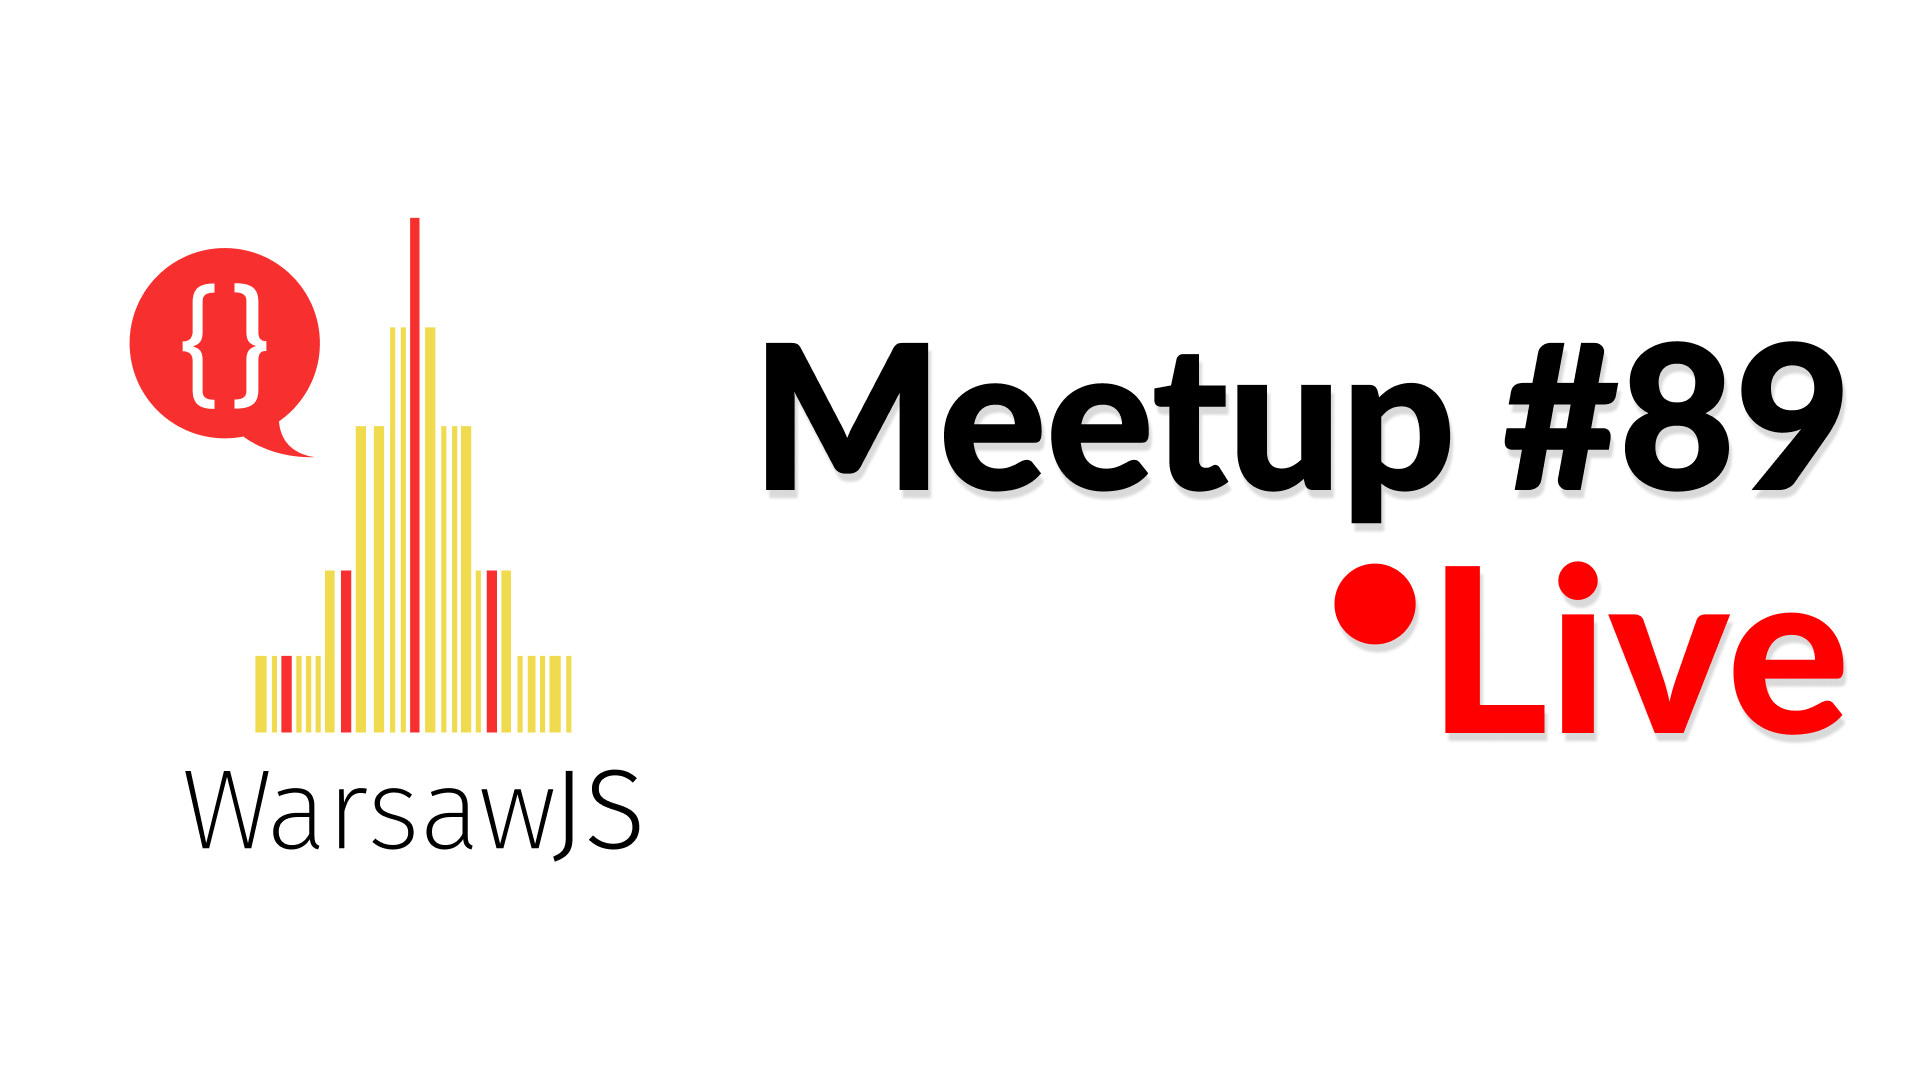
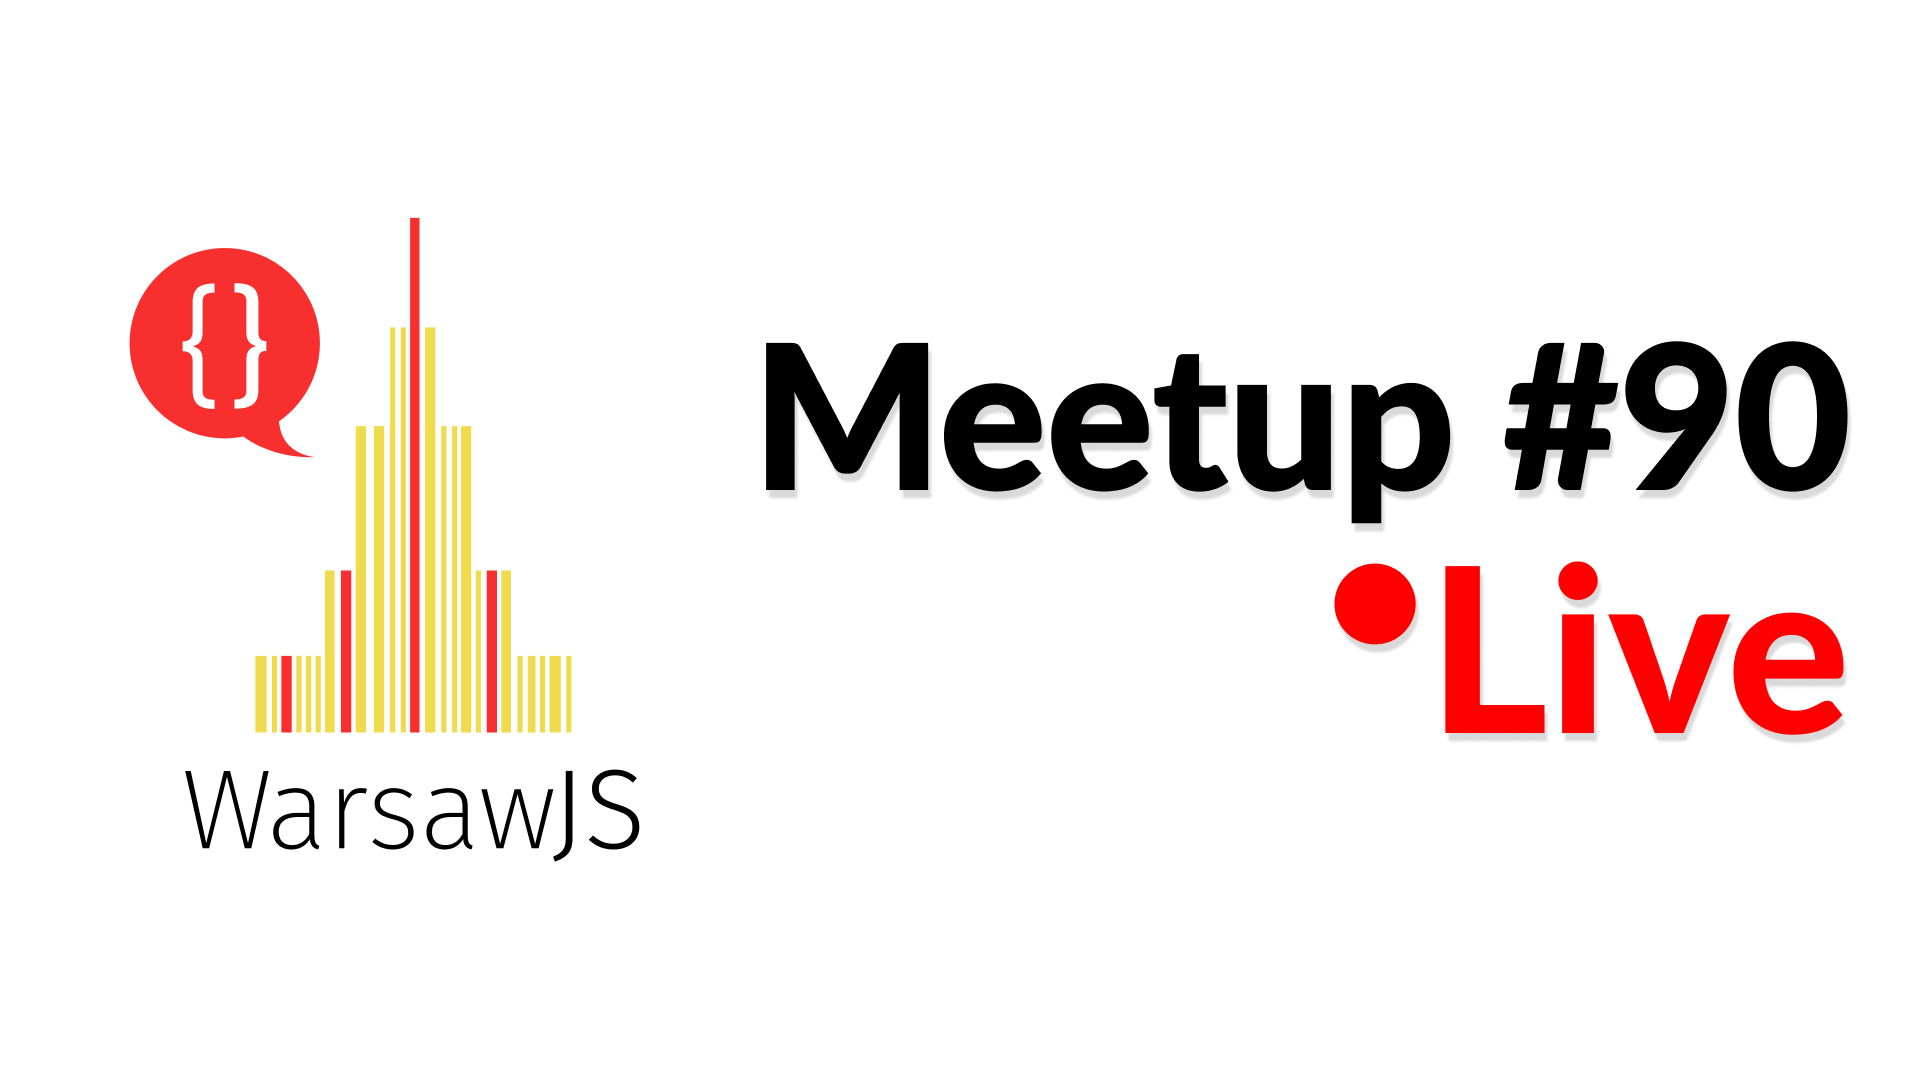
Update slides

Changed region(s): [[0.8438, 0.3361, 0.9688, 0.4583]]

diff --git a/index.html b/index.html
@@ -76,6 +76,33 @@
         //-->
     </section>
 
+        <section class="slide center slide-card-list" style="padding-top: 40px;">
+        <h2 style="font-size: 60px; margin-bottom: 20px;">
+            WarsawJS <em>Master of Ceremonies</em>
+        </h2>
+
+        <ul class="list-unstyled items">
+            <li>
+                <img
+                    src="https://s3.eu-central-1.amazonaws.com/www.warsawjs.com/static/images/people/barry-solone.jpg"
+                    class="avatar"
+                    style="border-radius: 50%; width: 170px; margin-bottom: 25px;"
+                    alt=""/>
+
+                <p>
+                    Barry Solone
+                </p>
+
+                <p>
+                    <a href="https://twitter.com/besosolone">
+                        <i class="icon icon-twitter"></i>
+                        <span>@besosolone</span>
+                    </a>
+                </p>
+            </li>
+        </ul>
+    </section>
+
     <section class="slide center slide-card-list" style="padding-top: 40px;">
         <h2 style="font-size: 60px; margin-bottom: 20px;">
             WarsawJS Meetup <em>Organizing Team</em>
@@ -185,7 +212,7 @@
 
     <section class="slide center slide-card-list" style="padding-top: 40px;">
         <h2 style="font-size: 60px; margin-bottom: 20px;">
-            WarsawJS Meetup <em>Team</em>
+            WarsawJS Meetup <em>Volunteers</em>
         </h2>
 
         <ul class="list-unstyled items">
@@ -239,7 +266,7 @@
                 <p>
                     <a href="https://github.com/warsawjs">
                         <i class="icon icon-twitter"></i>
-                        <span>Artur Kozubek</span>
+                        <span>Piotr Sławiński</span>
                     </a>
                 </p>
             </li>
@@ -282,7 +309,7 @@
     </section>
 
     <section class="slide">
-        <h1 class="shout">5,870 🙌</h1>
+        <h1 class="shout">5,901 🙌</h1>
 
         <h3 class="shout" style="font-size: 50px; margin-top: 120px;">
             <br/>
@@ -333,7 +360,7 @@
         <img
             class="cover"
             src="images/misc/Agenda.png"
-            alt="Meetup 86 speakers"
+            alt="Meetup 90 speakers"
         />
     </section>
 
@@ -345,36 +372,8 @@
 
     <section class="slide">
         <img class="cover" src="images/sponsors/Sponsors.png"
-             alt="10Clouds, Callstack, CKSource, Fresha, Packhelp, Postclick, Prisma, Sumo Logic, Xfaang"/>
+             alt="10Clouds, Allegro, Callstack, CKSource, Fresha, Monday.com, Packhelp, Postclick, Prisma, Sumo Logic, Xfaang"/>
     </section>
-
-<!--     <section class="slide">
-        <a href="https://app.evenea.pl/event/warsawjs-workshop-57">
-            <img
-                class="cover"
-                src="images/misc/Trainers.png"
-                alt="Workshop 57 Trainers"
-            />
-        </a>
-    </section> -->
-
-<!--     <section class="slide">
-        <img
-            class="cover"
-            src="images/misc/prisma_breakfast.jpg"
-            alt="Warsaw Breakfast with Prisma"
-        />
-    </section> -->
-
-<!--     <section class="slide">
-        <a href="https://linktr.ee/warsawjs">
-            <img
-                class="cover"
-                src="images/misc/social_media.png"
-                alt="Social Media"
-            />
-        </a>   
-    </section> -->
 
     <section class="slide">
         <img
@@ -393,9 +392,6 @@
     </section>
 
     <section class="slide">
-        <h2 class="shout grow" style="margin-top: 100px;color: orangered; font-size: 80px;">
-            🔥 We reopen the tickets sale!🔥
-        </h2>
         <img
             class="cover"
             src="images/misc/confrontjs.png"
